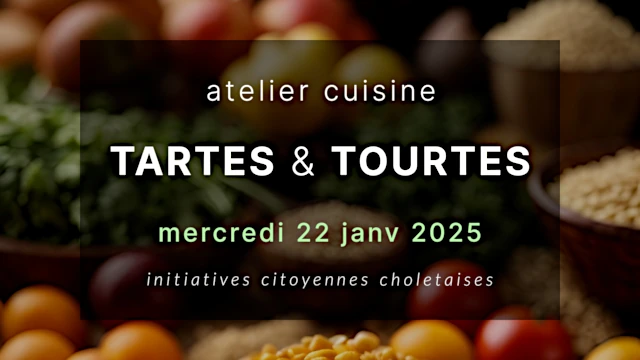
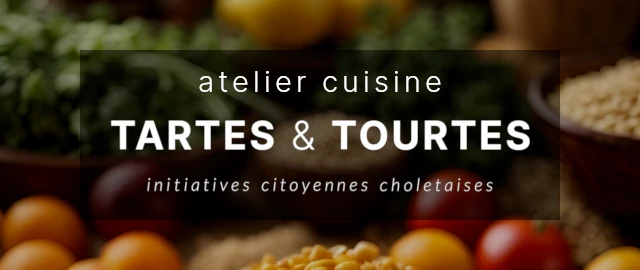
ajout des nouveaux ateliers et déco noel

diff --git a/pg/e_003-ateliers cuisine.php b/pg/e_003-ateliers cuisine.php
@@ -14,6 +14,15 @@
 
   include '../assets/components/head-SEO.php';
   ?>
+  <style>
+    .christmas {
+      margin: -30px;
+
+      @media (width <= 780px) {
+        margin: -20px;
+      }
+    }
+  </style>
 </head>
 
 <body>
@@ -25,27 +34,75 @@
       ?>
   </header>
   <main>
-    <article class="box">
+    <article class="box"">
+      <div class="christmas">
+        <img src="../assets/img/christmas-bg.webp" alt="bandeau spécial noël" loading="lazy">
+      </div>
       <small>Pour en savoir plus sur comment sont organisés ces ateliers     <a href="#Organisation">↓    voir plus bas    ↓</a></small>
-      <h2>Prochain rendez-vous</h2>
+      <div class="grid twin-img" style="z-index: 5;">
+        <h2>Prochains rendez-vous</h2>
+        <small style="text-align: right;">Lieu : Cholet      9h30-14h00</small>
+      </div>
       <div class="wrap">
         <section class="eventBox">
-          <img src="../assets/img/e_004-atelier cuisine LEGUMINEUSES.webp" alt="image date événement" width="10vw">
+          <img src="../assets/img/e_005-atelier cuisine CEREALES.webp" alt="image date événement" width="10vw">
           <div class="txtBox">
-            <p>Autour de 5 préparations inspirées des recettes de Gilles Daveau, il vous sera possible de requestionner vos habitudes alimentaires en laissant plus de places aux légumineuses bio.</p>
+            <p>Pizza, crumble, farçis, burgers... Apprenez à cuisiner les céréales complètes et semi complètes avec ou sans gluten sous différentes formes avec des recettes inédites inspirées de Gilles Daveau.</p>
             <div class="displayBtn">
-              <a href="https://www.helloasso.com/associations/initiatives-citoyennes-choletaises/evenements/atelier-cuisine-equilibre-alimentaire"
-                title="Page d'inscription sur HelloAsso"><span class="btn _text">inscriptions</span></a>
+              <a href="https://www.helloasso.com/associations/initiatives-citoyennes-choletaises/evenements/atelier-cuisine-cereales-dec"
+              title="Page d'inscription sur HelloAsso"><span class="btn _text">mercredi 11 déc 2024</span></a>
+            </div>
+            <div class="displayBtn">
+              <a href="https://www.helloasso.com/associations/initiatives-citoyennes-choletaises/evenements/atelier-cuisine-cereales-mars"
+              title="Page d'inscription sur HelloAsso"><span class="btn _text">samedi 1er mars 2025</span></a>
+            </div>
+            <div class="displayBtn">
+              <a href="https://www.helloasso.com/associations/initiatives-citoyennes-choletaises/evenements/atelier-cuisine-cereales-avril"
+              title="Page d'inscription sur HelloAsso"><span class="btn _text">mercredi 30 avril 2025</span></a>
+            </div>
+            <div class="displayBtn">
+              <a href="https://www.helloasso.com/associations/initiatives-citoyennes-choletaises/evenements/atelier-cuisine-cereales-mai-1"
+              title="Page d'inscription sur HelloAsso"><span class="btn _text">samedi 17 mai 2025</span></a>
+            </div>
+            <div class="displayBtn">
+              <a href="https://www.helloasso.com/associations/initiatives-citoyennes-choletaises/evenements/atelier-cuisine-cereales-mai-2"
+              title="Page d'inscription sur HelloAsso"><span class="btn _text">mercredi 21 mai 2025</span></a>
             </div>
           </div>
         </section>
         <section class="eventBox">
-          <img src="../assets/img/e_005-atelier cuisine LEGUMINEUSES.webp" alt="image date événement">
+          <img src="../assets/img/e_004-atelier cuisine LEGUMINEUSES 1.webp" alt="image date événement" width="10vw">
+          <div class="txtBox">
+            <p>Autour de 5 préparations inspirées des recettes de Gilles Daveau, il vous sera possible de requestionner vos habitudes alimentaires en laissant plus de places aux légumineuses bio.</p>
+            <div class="displayBtn">
+              <a href="https://www.helloasso.com/associations/initiatives-citoyennes-choletaises/evenements/atelier-cuisine-legumineuses-1"
+              title="Page d'inscription sur HelloAsso"><span class="btn _text">samedi 4 janv 2025</span></a>
+            </div>
+            <div class="displayBtn">
+              <a href="https://www.helloasso.com/associations/initiatives-citoyennes-choletaises/evenements/atelier-cuisine-legumineuses-1-fevr"
+              title="Page d'inscription sur HelloAsso"><span class="btn _text">samedi 8 févr 2025</span></a>
+            </div>
+            <div class="displayBtn">
+              <a href="https://www.helloasso.com/associations/initiatives-citoyennes-choletaises/evenements/atelier-cuisine-legumineuses-1-juin"
+              title="Page d'inscription sur HelloAsso"><span class="btn _text">samedi 7 juin 2025</span></a>
+            </div>
+          </div>
+        </section>
+        <section class="eventBox">
+          <img src="../assets/img/e_004-atelier cuisine LEGUMINEUSES 2.webp" alt="image date événement">
           <div class="txtBox">
             <p>C'est incroyable tout ce que l'on peut faire avec des légumineuses. Ce deuxième atelier vous permettra de découvrir d'autres idées autour de ces aliments incontournables pour une alimentation durable.</p>
             <div class="displayBtn">
-              <a href="https://www.helloasso.com/associations/initiatives-citoyennes-choletaises/evenements/atelier-cuisine-equilibre-alimentaire"
-                title="Page d'inscription sur HelloAsso"><span class="btn _text">inscriptions</span></a>
+              <a href="https://www.helloasso.com/associations/initiatives-citoyennes-choletaises/evenements/atelier-cuisine-legumineuses-2eme-partie"
+              title="Page d'inscription sur HelloAsso"><span class="btn _text">samedi 7 déc 2024</span></a>
+            </div>
+            <div class="displayBtn">
+              <a href="https://www.helloasso.com/associations/initiatives-citoyennes-choletaises/evenements/atelier-cuisine-legumineuses-2"
+              title="Page d'inscription sur HelloAsso"><span class="btn _text">mercredi 19 févr 2025</span></a>
+            </div>
+            <div class="displayBtn">
+              <a href="https://www.helloasso.com/associations/initiatives-citoyennes-choletaises/evenements/atelier-cuisine-legumineuses-2-juil"
+              title="Page d'inscription sur HelloAsso"><span class="btn _text">mercredi 2 juil 2025</span></a>
             </div>
           </div>
         </section>
@@ -55,7 +112,15 @@
             <p>Autour d'une recette de pâte simple, rapide et inratable nous revisiterons tous les formats des quiches, tartes, et tourtes , sucrées ou salées.</p>
             <div class="displayBtn">
               <a href="https://www.helloasso.com/associations/initiatives-citoyennes-choletaises/evenements/atelier-tartes-et-tourtes"
-                title="Page d'inscription sur HelloAsso"><span class="btn _text">inscriptions</span></a>
+                title="Page d'inscription sur HelloAsso"><span class="btn _text">mercredi 22 janv 2025</span></a>
+            </div>
+            <div class="displayBtn">
+              <a href="https://www.helloasso.com/associations/initiatives-citoyennes-choletaises/evenements/atelier-tartes-et-tourtes-mars"
+                title="Page d'inscription sur HelloAsso"><span class="btn _text">mercredi 19 mars 2025</span></a>
+            </div>
+            <div class="displayBtn">
+              <a href="https://www.helloasso.com/associations/initiatives-citoyennes-choletaises/evenements/atelier-tartes-et-tourtes-avril"
+                title="Page d'inscription sur HelloAsso"><span class="btn _text">samedi 5 avril 2025</span></a>
             </div>
           </div>
         </section>

diff --git a/event.php b/event.php
@@ -31,7 +31,7 @@
       <section id="left">
         <article id="ateliers_next" class="box">
           <h3>Prochains ateliers cuisine</h3>
-          <h5>nov & déc 2024, janv 2025</h5>
+          <h5>déc 2024 et 1er semestre 2025</h5>
           <section class="grid event">
             <div>
               <p>Ateliers à Cholet basés sur la cuisine alternative définie par Gilles DAVEAU..</p>
@@ -41,15 +41,16 @@
               </div>
             </div>
             <div>
-              <p class="dark">samedi 16 nov 2024    9h30-14h <br><strong>Légumineuses<small> 1ère partie</small></strong></p>
-              <p class="dark">samedi 7 déc 2024    9h30-14h <br><strong>Légumineuses<small> 2ème partie</small></strong></p>
-              <p class="dark">mercredi 22 janv 2024    9h30-14h <br><strong>Tartes & Tourtes</small></strong></p>
+              <p class="dark">samedi 7 déc 2024    9h30-14h <br><strong>Légumineuses 2</strong></p>
+              <p class="dark">mercredi 11 déc 2024    9h30-14h <br><strong>Céréales</strong></p>
+              <p class="dark">samedi 4 janv 2025    9h30-14h <br><strong>Légumineuses 1</strong></p>
+              <p class="dark">mercredi 22 janv 2025    9h30-14h <br><strong>Tartes & Tourtes</small></strong></p>
             </div>
           </section>
         </article>
         <article id="ateliers" class="box">
-          <h3>Deux ateliers cuisine</h3>
-          <h5>oct 2024</h5>
+          <h3>Précédents ateliers cuisine</h3>
+          <h5>automne 2024</h5>
           <section class="grid event">
             <img src="./assets/img/e_003-atelier cuisine CEREALES.webp" alt="image date événement">
             <div>
@@ -60,7 +61,7 @@
           <section class="grid event">
             <img src="./assets/img/e_003-atelier cuisine LEGUMINEUSES.webp" alt="image date événement">
             <div>
-              <p><strong>atelier « Légumineuses <small>(1ère partie)</small> »</strong></p>
+              <p><strong>atelier « Légumineuses 1 »</strong></p>
               <p>Au menu : dhal et pain à base de lentilles, chili, cake aux pois chiches et autres utilisations surprenantes des légumineuses.</p>
             </div>
           </section>
@@ -139,7 +140,7 @@
         <article id="sommaire" class="box">
           <h3>navigation</h3>
           <p><a href="#ateliers_next">Prochains ateliers</a></p>
-          <p><a href="#ateliers">Ateliers cuisine d'octobre</a></p>
+          <p><a href="#ateliers">Précédents ateliers cuisine</a></p>
           <p><a href="#RDV">Repas Citoyen</a></p>
           <p><a href="#engagt">L'engagement des jeunes</a></p>
           <p><a href="#presentAsso">Lancement de l'association</a></p>

diff --git a/index.php b/index.php
@@ -35,7 +35,7 @@
         <p>Sur <span class="btnColor"><a href="./projects.php">Projets</a></span></p>
         <p class="retrait">L'action <strong>« Dessine-moi ta rue »</strong></p>
         <p>Sur <span class="btnColor"><a href="./event.php">Évènements</a></span></p>
-        <p class="retrait">Des <strong>ateliers cuisine</strong> selon les recettes de <strong>Gilles DAVEAU</strong></p>
+        <p class="retrait">Des <a href="./pg/e_003-ateliers cuisine.php" title="accès direct à la page des ateliers cuisine"><strong>ateliers cuisine</strong></a> selon les recettes de <strong>Gilles DAVEAU</strong></p>
         <p>Sur <span class="btnColor"><a href="./links.php">Liens</a></span></p>
         <p class="retrait">Le site <strong>« Plus fraîche ma ville »</strong></p>
         <p class="retrait">Un guide pour la gestion <strong>des eaux de pluie et eaux usées</strong> traitées</p>

diff --git a/links.php b/links.php
@@ -37,7 +37,9 @@
                 title="Site qui recense les solutions pour rafraîchir la ville">ce site internet</a></strong>.
           </p>
           <p>Sa vocation est d'aider les collectivités dans le choix de solutions de rafraîchissement urbain pérennes et
-            durables.</p>
+            durables.
+          </p>
+          <p>Et nous sommes pas tous égaux face à ce phénomène selon <a href="https://www.insee.fr/fr/statistiques/8283129" title="En milieu urbain, les ménages modestes sont en général plus exposés aux îlots de chaleur">cette étude de l'INSEE</a>..</p>
         </article>
         <article id="Assainissement" class="box">
           <h2>Eau : assainissement non collectif</h2>
